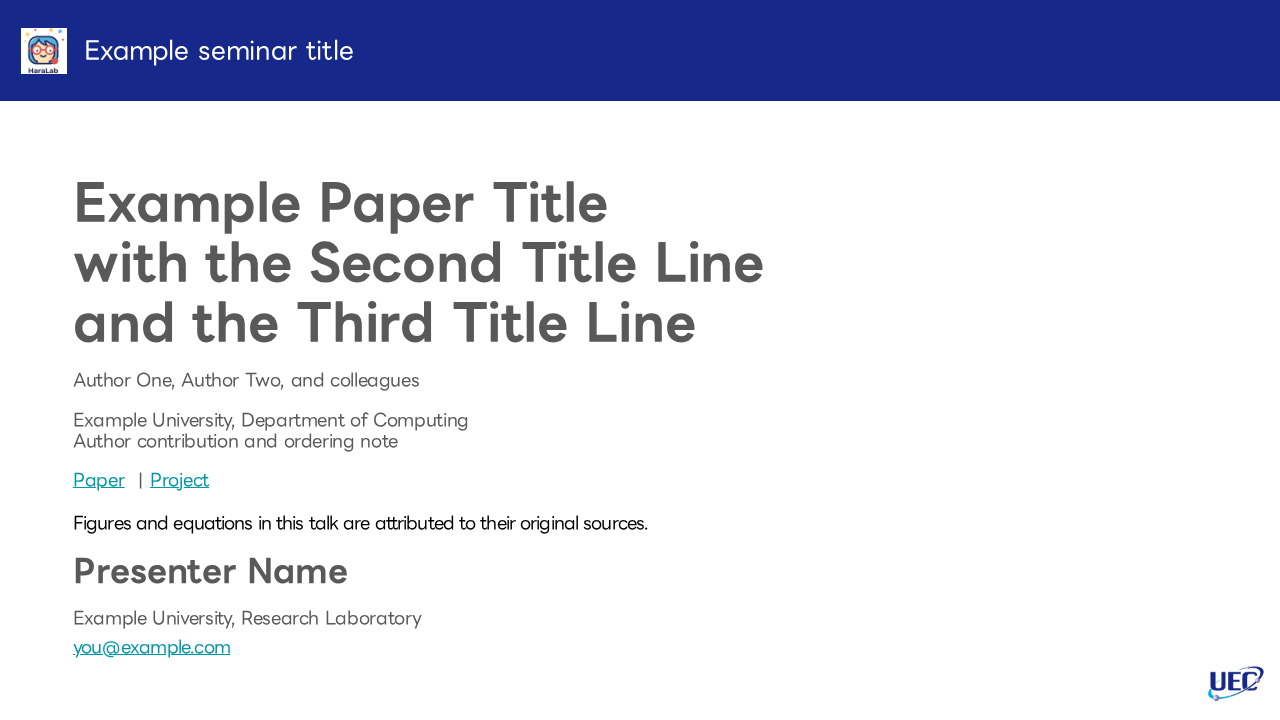
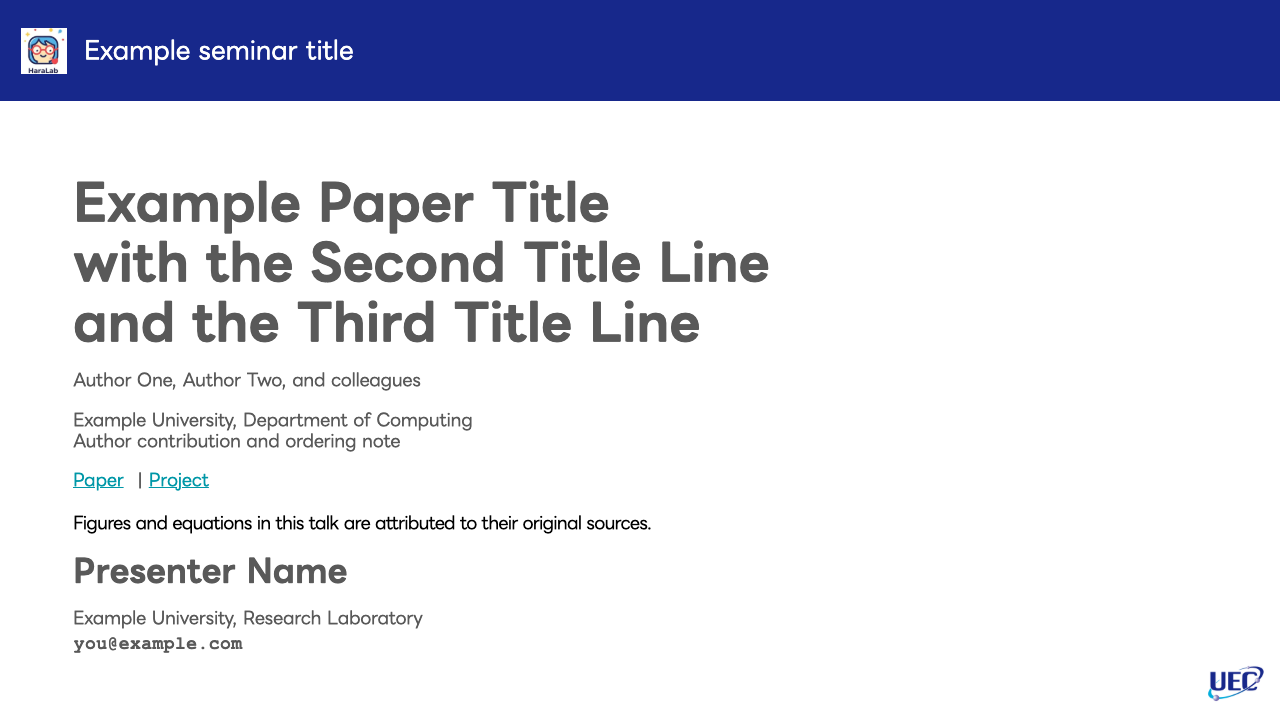
Guard UEC Haralab cover rendering (#13)
* Add UEC Haralab cover render specification guard

* Restore cover email styling in examples

---------

diff --git a/slides/example-uec-haralab/slides.md b/slides/example-uec-haralab/slides.md
@@ -24,7 +24,7 @@ Figures and equations in this talk are attributed to their original sources.
 
 Example University, Research Laboratory
 
-you@example.com
+`you@example.com`
 
 ---
 
@@ -38,7 +38,7 @@ you@example.com
 
 Example University, Research Laboratory
 
-you@example.com
+`you@example.com`
 
 ---
 

diff --git a/scripts/fixtures/uec-debug-layout.md b/scripts/fixtures/uec-debug-layout.md
@@ -22,4 +22,4 @@ paginate: true
 
 Example University, Research Laboratory
 
-presenter@example.com
+`presenter@example.com`
